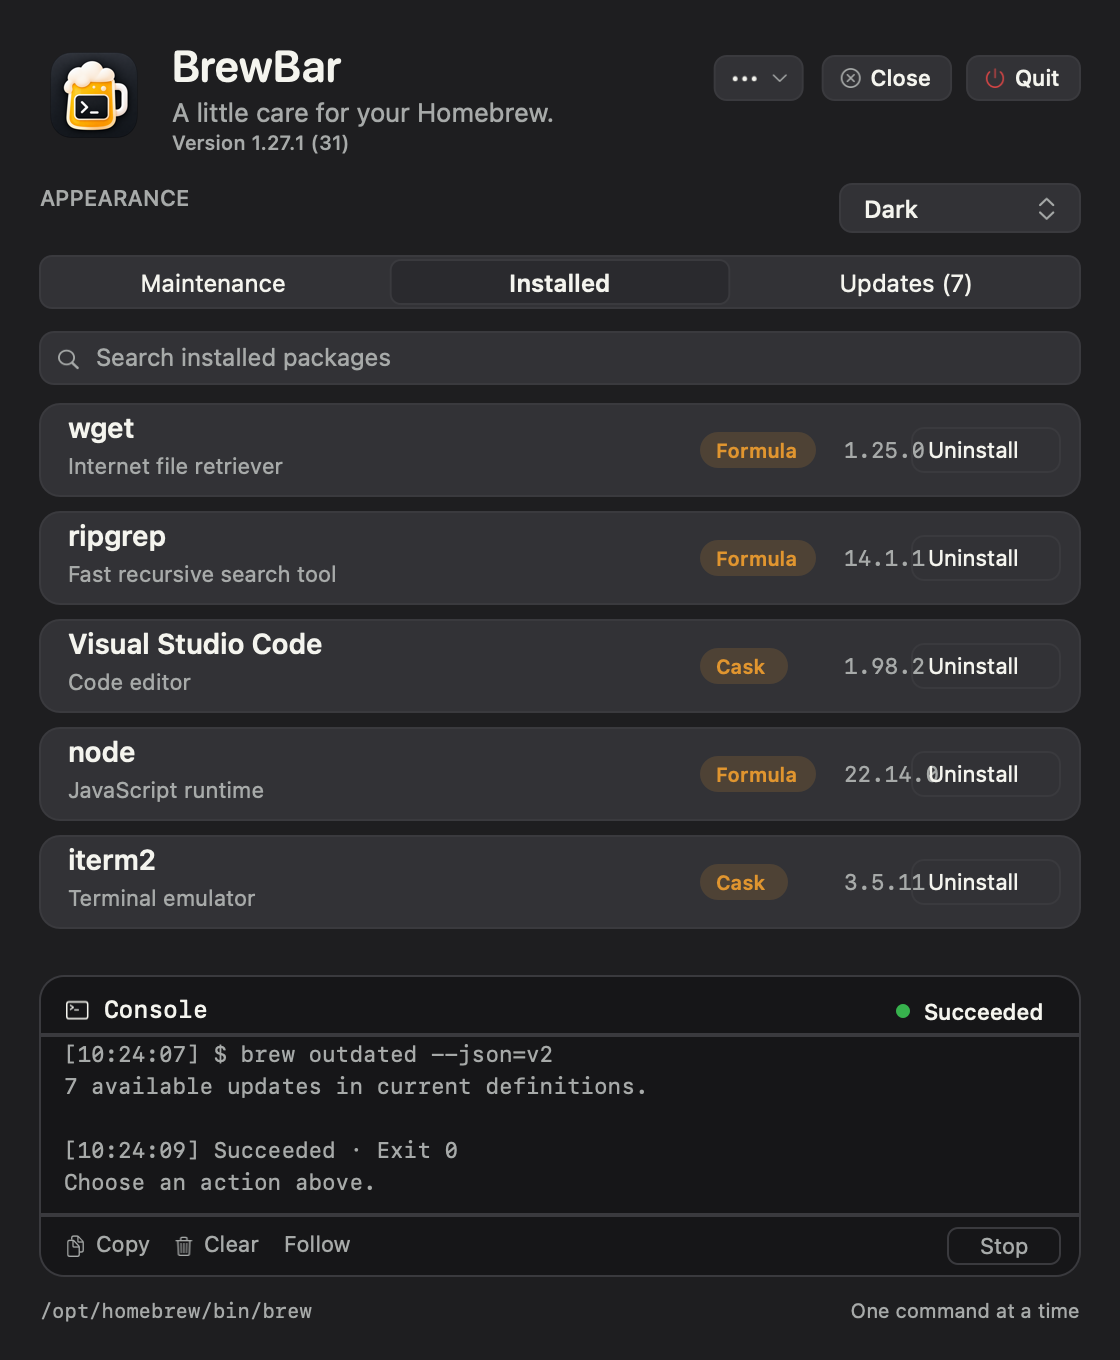
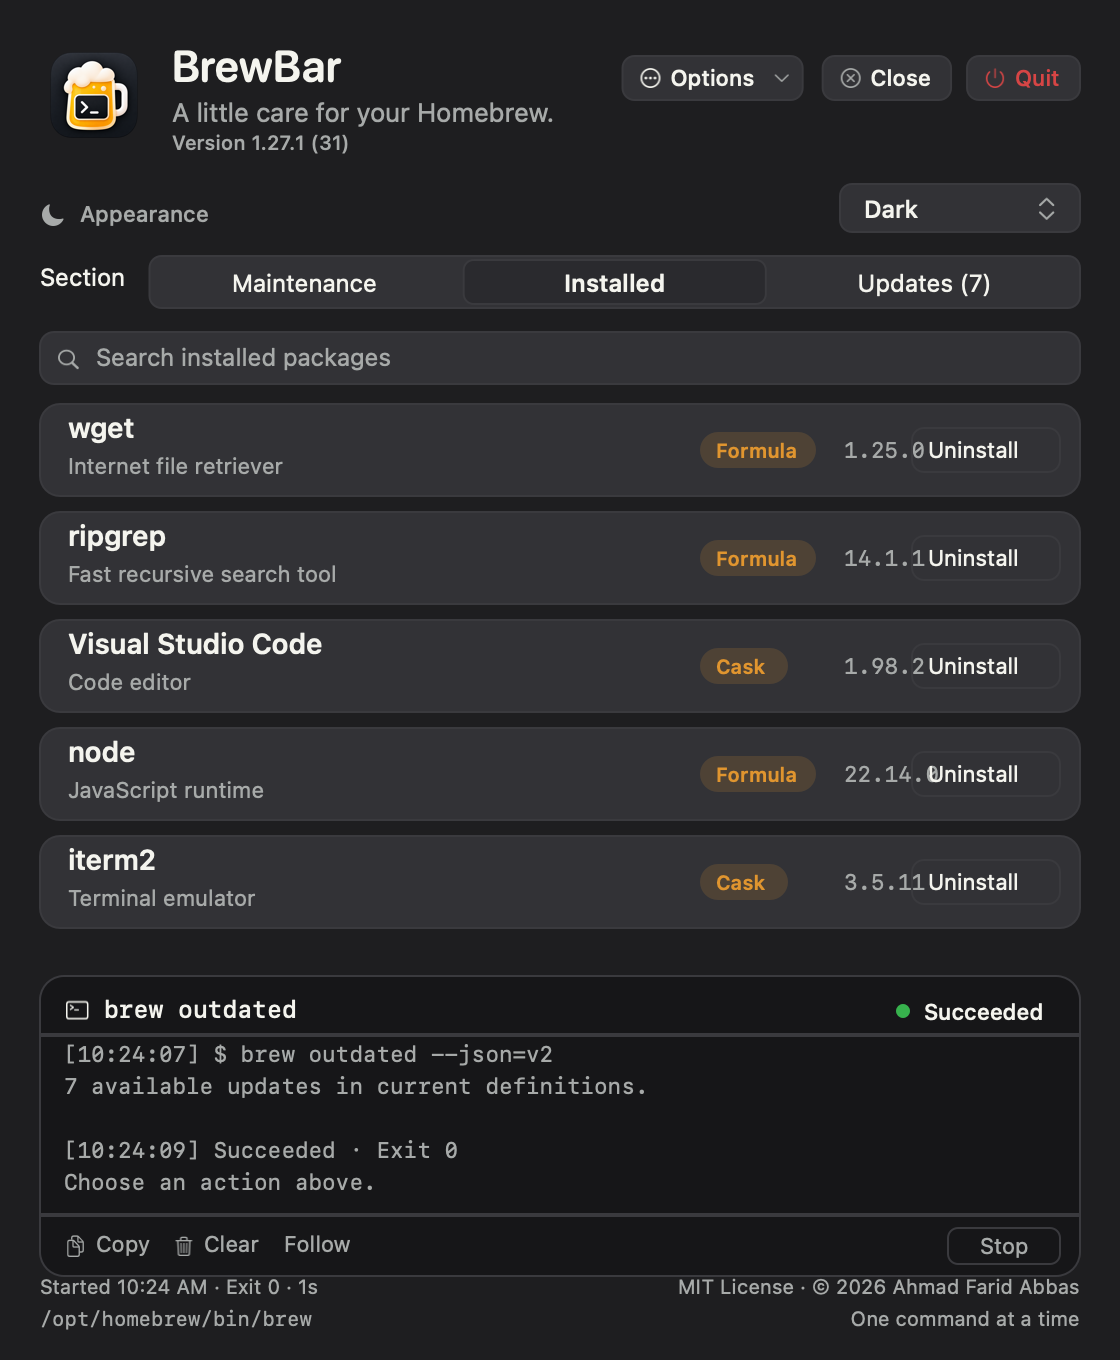
Regenerate website renders to match shipped app UI
Fix marketing-render discrepancies vs the real app: Quit button label now
red (destructive), Options shown as a labeled pill, Appearance uses the
mode icon + title case, a 'Section' label precedes the right-shifted tabs,
the Brewfile backup row is drawn on the Maintenance tab, the footer has its
second line (run status + MIT/copyright), and the idle console shows the
last command. Renders only — no app/version change.

diff --git a/src/Design/RenderSite.swift b/src/Design/RenderSite.swift
@@ -171,7 +171,7 @@ func renderDashboard(width: CGFloat, height: CGFloat, theme t: Theme, tab: Tab,
     let quitR = NSRect(x: cx - quitW, y: top - 30, width: quitW, height: 22)
     fill(quitR, t.card, radius: 6); strokeRect(quitR, t.line, radius: 6)
     symbol("power", NSRect(x: quitR.minX + 8, y: quitR.midY - 6, width: 12, height: 12), color: t.red)
-    text(quitLabel, NSPoint(x: quitR.minX + 24, y: quitR.midY - 7), size: 11, color: t.ink, weight: .medium)
+    text(quitLabel, NSPoint(x: quitR.minX + 24, y: quitR.midY - 7), size: 11, color: t.red, weight: .medium)
     cx = quitR.minX - 8
     // Close button
     let closeW = measure(closeLabel, 11, weight: .medium) + 34
@@ -180,17 +180,21 @@ func renderDashboard(width: CGFloat, height: CGFloat, theme t: Theme, tab: Tab,
     symbol("xmark.circle", NSRect(x: closeR.minX + 8, y: closeR.midY - 6, width: 12, height: 12), color: t.muted)
     text(closeLabel, NSPoint(x: closeR.minX + 24, y: closeR.midY - 7), size: 11, color: t.ink, weight: .medium)
     cx = closeR.minX - 10
-    // Options button (bordered, matches Close/Quit — ellipsis + chevron)
-    let optsW: CGFloat = 44
+    // Options button (bordered, matches Close/Quit — ellipsis icon + "Options" label + chevron)
+    let optsLabel = "Options"
+    let optsW: CGFloat = measure(optsLabel, 11, weight: .medium) + 48
     let optsR = NSRect(x: cx - optsW, y: top - 30, width: optsW, height: 22)
     fill(optsR, t.card, radius: 6); strokeRect(optsR, t.line, radius: 6)
-    symbol("ellipsis", NSRect(x: optsR.minX + 8, y: optsR.midY - 6, width: 14, height: 12), color: t.ink)
-    symbol("chevron.down", NSRect(x: optsR.maxX - 16, y: optsR.midY - 5, width: 9, height: 10), color: t.muted)
+    symbol("ellipsis.circle", NSRect(x: optsR.minX + 8, y: optsR.midY - 6, width: 12, height: 12), color: t.ink)
+    text(optsLabel, NSPoint(x: optsR.minX + 24, y: optsR.midY - 7), size: 11, color: t.ink, weight: .medium)
+    symbol("chevron.down", NSRect(x: optsR.maxX - 15, y: optsR.midY - 5, width: 9, height: 10), color: t.muted)
     top -= 74
 
-    // Appearance row — a menu-style popup showing the current mode (5 options: System, Light,
-    // Dark, Papery Light, Papery Dark), matching the app's .menu picker.
-    text("APPEARANCE", NSPoint(x: pad, y: top - 12), size: 11, color: t.muted, weight: .medium)
+    // Appearance row — an icon + "Appearance" label on the left (matches the app's
+    // Label("Appearance", systemImage:)), then a menu-style popup showing the current mode.
+    let apprIcon = t.papery ? "doc.plaintext" : (t.dark ? "moon.fill" : "sun.max.fill")
+    symbol(apprIcon, NSRect(x: pad, y: top - 20, width: 13, height: 13), color: t.muted)
+    text("Appearance", NSPoint(x: pad + 20, y: top - 20), size: 11, color: t.muted, weight: .medium)
     let menuLabel = t.appearanceLabel
     let menuW: CGFloat = max(120, measure(menuLabel, 12, weight: .medium) + 46)
     let menuH: CGFloat = 24
@@ -201,9 +205,13 @@ func renderDashboard(width: CGFloat, height: CGFloat, theme t: Theme, tab: Tab,
     symbol("chevron.up.chevron.down", NSRect(x: menuRect.maxX - 22, y: menuRect.midY - 7, width: 11, height: 14), color: t.muted)
     top -= 34
 
-    // Tab picker
-    let tabW = panelW, tabH: CGFloat = 26
-    let tabRect = NSRect(x: pad, y: top - tabH, width: tabW, height: tabH)
+    // Tab picker — the app's Picker("Section", …) shows its "Section" label to the left,
+    // so the segmented control sits to the right of that label (not full-width).
+    let sectionLabel = "Section"
+    text(sectionLabel, NSPoint(x: pad, y: top - 18), size: 12, color: t.ink)
+    let tabX = pad + measure(sectionLabel, 12) + 12
+    let tabW = width - pad - tabX, tabH: CGFloat = 26
+    let tabRect = NSRect(x: tabX, y: top - tabH, width: tabW, height: tabH)
     fill(tabRect, t.card, radius: 6); strokeRect(tabRect, t.line, radius: 6)
     let tabs = ["Maintenance", "Installed", "Updates (7)"]
     let activeTab = (tab == .installed || tab == .search) ? 1 : (tab == .updates ? 2 : 0)
@@ -232,6 +240,21 @@ func renderDashboard(width: CGFloat, height: CGFloat, theme t: Theme, tab: Tab,
             text("brew \(a.command)", NSPoint(x: x + 42, y: r.maxY - 58), size: 10, color: t.muted, mono: true)
         }
         top -= cardH * 3 + gap * 2 + 12
+        // Brewfile backup row (icon + title/subtitle on the left, Export/Restore on the right).
+        let bfH: CGFloat = 52
+        let bfR = NSRect(x: pad, y: top - bfH, width: panelW, height: bfH)
+        fill(bfR, t.card, radius: 12); strokeRect(bfR, t.line, radius: 12)
+        symbol("arrow.up.arrow.down.square", NSRect(x: pad + 12, y: bfR.midY - 9, width: 18, height: 18), color: t.accent)
+        text("Brewfile backup", NSPoint(x: pad + 40, y: bfR.midY + 2), size: 13, color: t.ink, weight: .semibold)
+        text("Save your setup, or restore it from a Brewfile.", NSPoint(x: pad + 40, y: bfR.midY - 16), size: 10, color: t.muted)
+        let restoreW: CGFloat = 58, exportW: CGFloat = 58, btnH: CGFloat = 22
+        let restoreR = NSRect(x: bfR.maxX - 12 - restoreW, y: bfR.midY - btnH/2, width: restoreW, height: btnH)
+        strokeRect(restoreR, t.line, radius: 6)
+        text("Restore", NSPoint(x: restoreR.midX - measure("Restore", 11, weight: .medium)/2, y: restoreR.midY - 7), size: 11, color: t.accent, weight: .medium)
+        let exportR = NSRect(x: restoreR.minX - 8 - exportW, y: bfR.midY - btnH/2, width: exportW, height: btnH)
+        strokeRect(exportR, t.line, radius: 6)
+        text("Export", NSPoint(x: exportR.midX - measure("Export", 11, weight: .medium)/2, y: exportR.midY - 7), size: 11, color: t.accent, weight: .medium)
+        top -= bfH + 12
     case .installed:
         let rows = [("wget", "Internet file retriever", "1.25.0", "Formula"),
                     ("ripgrep", "Fast recursive search tool", "14.1.1", "Formula"),
@@ -342,7 +365,7 @@ func renderDashboard(width: CGFloat, height: CGFloat, theme t: Theme, tab: Tab,
     fill(consoleRect, t.console, radius: 12); strokeRect(consoleRect, t.line, radius: 12)
     let chY = consoleRect.maxY - 30
     symbol("terminal", NSRect(x: pad + 12, y: chY + 6, width: 14, height: 14), color: t.ink)
-    text(running ? "brew upgrade" : "Console", NSPoint(x: pad + 32, y: chY + 6), size: 12, color: t.ink, weight: .medium, mono: true)
+    text(running ? "brew upgrade" : "brew outdated", NSPoint(x: pad + 32, y: chY + 6), size: 12, color: t.ink, weight: .medium, mono: true)
     let dotColor = running ? t.accent : t.green
     fill(NSRect(x: consoleRect.maxX - 92, y: chY + 9, width: 7, height: 7), dotColor, radius: 3.5)
     text(running ? "Running" : "Succeeded", NSPoint(x: consoleRect.maxX - 78, y: chY + 5), size: 11, color: t.ink, weight: .medium)
@@ -377,9 +400,16 @@ func renderDashboard(width: CGFloat, height: CGFloat, theme t: Theme, tab: Tab,
     if running { fill(stopR, t.red, radius: 5); text("Stop", NSPoint(x: stopR.minX + 16, y: stopR.midY - 7), size: 11, color: .white, weight: .medium) }
     else { strokeRect(stopR, t.line, radius: 5); text("Stop", NSPoint(x: stopR.minX + 16, y: stopR.midY - 7), size: 11, color: t.muted) }
 
-    text("/opt/homebrew/bin/brew", NSPoint(x: pad, y: pad - 2), size: 10, color: t.muted, mono: true)
+    // Footer — two lines, matching the app.
+    // Top line: run status (left) + license/copyright (right).
+    let statusLeft = running ? "Started 10:24 AM · Running" : "Started 10:24 AM · Exit 0 · 1s"
+    text(statusLeft, NSPoint(x: pad, y: pad + 10), size: 10, color: t.muted)
+    let license = "MIT License · © 2026 Ahmad Farid Abbas"
+    text(license, NSPoint(x: width - pad - measure(license, 10), y: pad + 10), size: 10, color: t.muted)
+    // Bottom line: brew path (left) + tagline (right).
+    text("/opt/homebrew/bin/brew", NSPoint(x: pad, y: pad - 6), size: 10, color: t.muted, mono: true)
     let ftr = "One command at a time"
-    text(ftr, NSPoint(x: width - pad - measure(ftr, 10), y: pad - 2), size: 10, color: t.muted)
+    text(ftr, NSPoint(x: width - pad - measure(ftr, 10), y: pad - 6), size: 10, color: t.muted)
 
     NSGraphicsContext.restoreGraphicsState()
     return bmp
